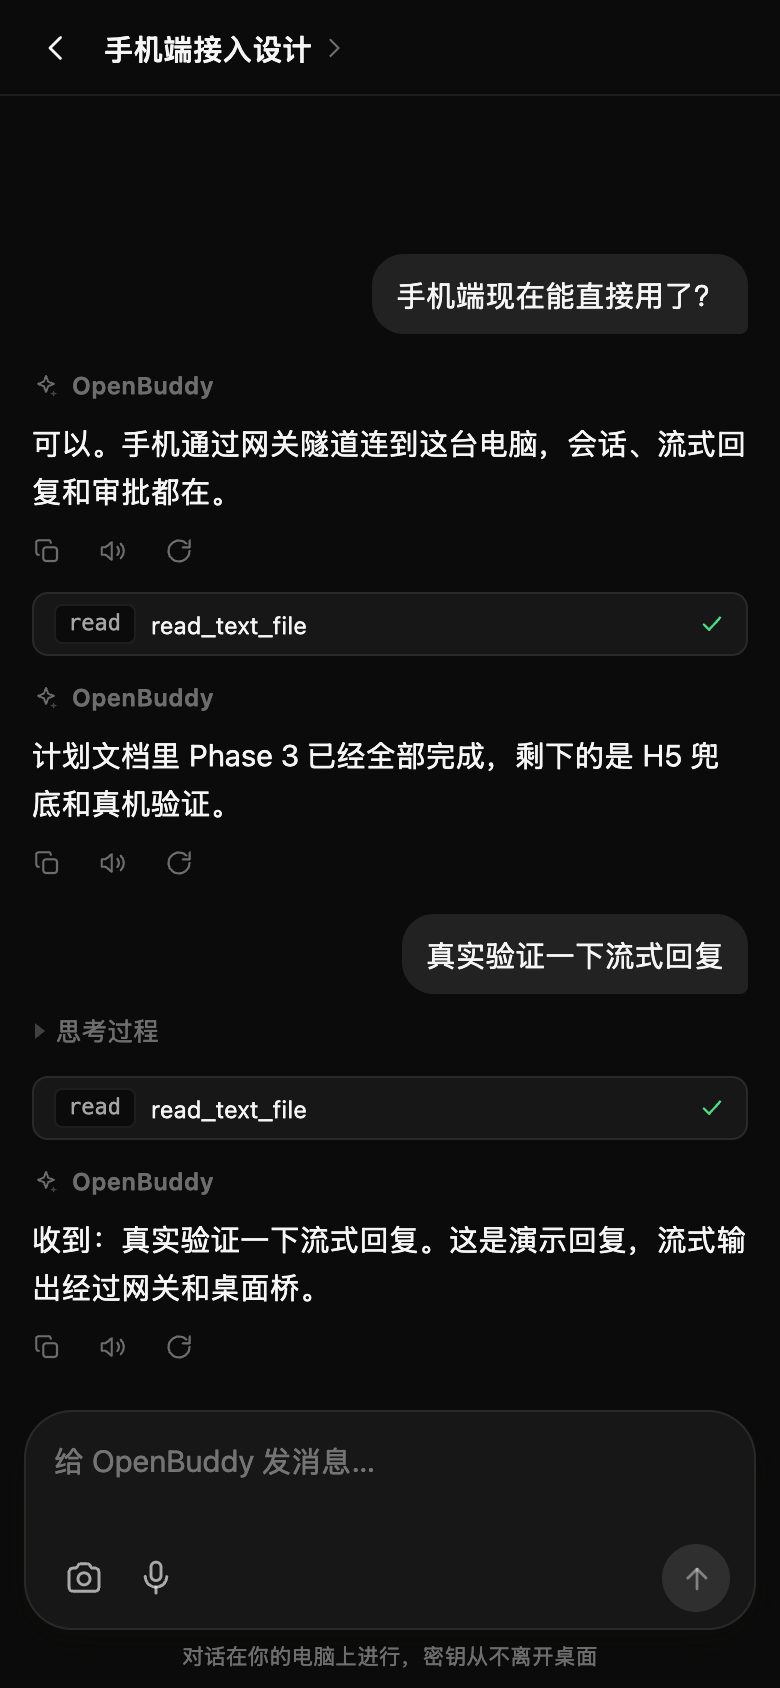
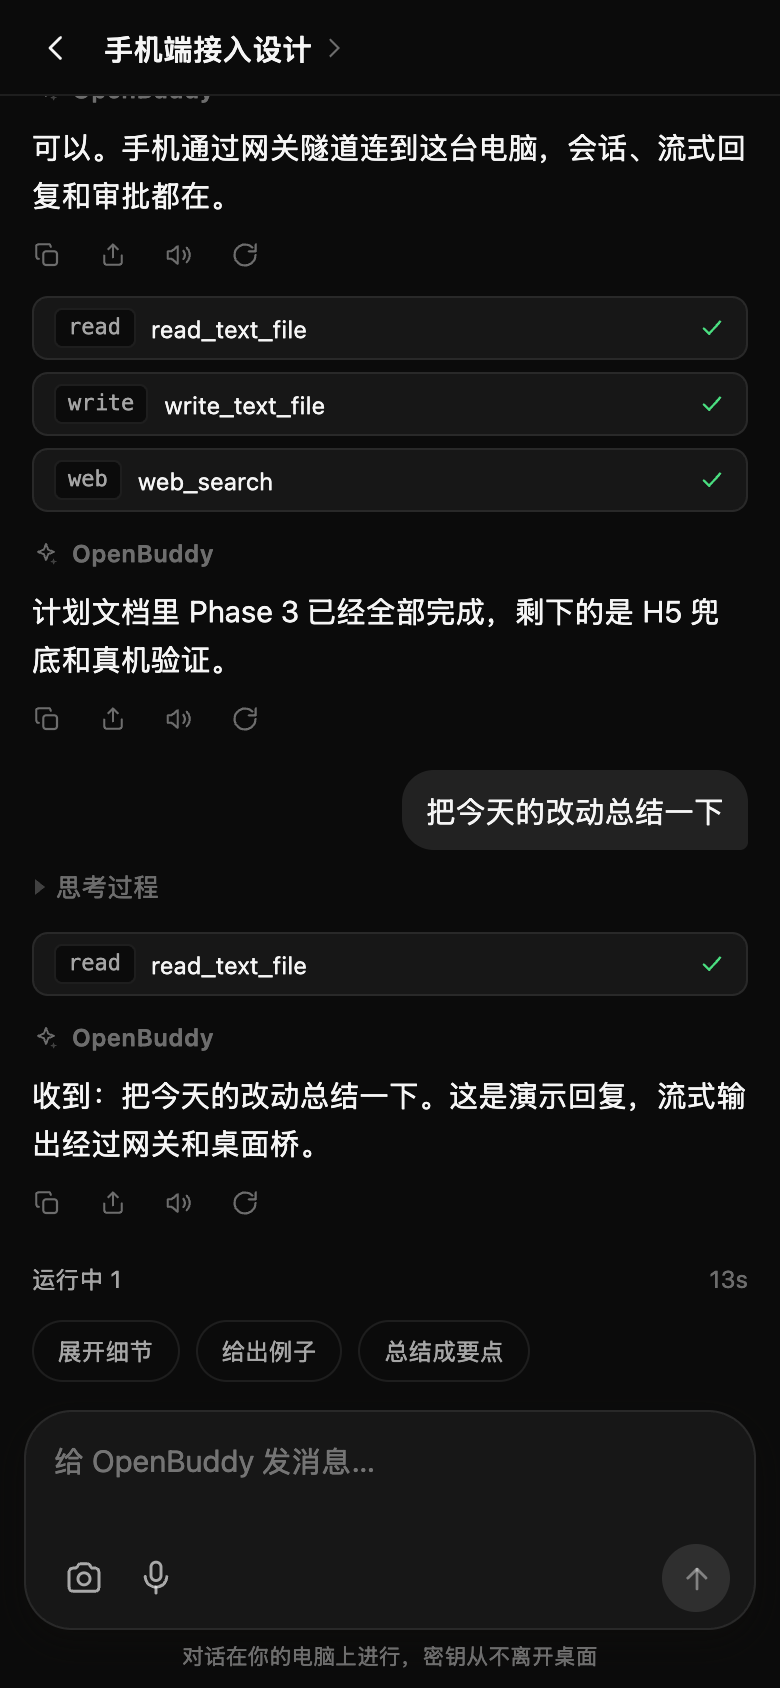
docs(mobile): AI Chat 真链路复验截图（浅/深/流式）

diff --git a/docs/plan/20261117-mobile.md b/docs/plan/20261117-mobile.md
@@ -482,6 +482,11 @@ iOS/web `expo export` 通过。
 第八轮验证：手机端 **216** 单测、App E2E **102/102**、全量 UI **32/32**、
 gateway `bun test` **364/364**、`tsc` 与 iOS/web `expo export` 通过。
 
+**AI Chat 真链路复验（浅/深）**：手机发送 → 网关隧道 → PiBridge → 流式回包；
+截图确认思考折叠、工具卡、逐字输出（停止按钮在位）、落定后复制/分享/朗读行、
+跟进建议与「密钥从不离开桌面」脚注。刷新 `mobile-chat-live.png`、
+`mobile-chat-live-dark.png`、`mobile-chat-live-streaming.png`。
+
 ---
 
 ## 10. 非功能目标
